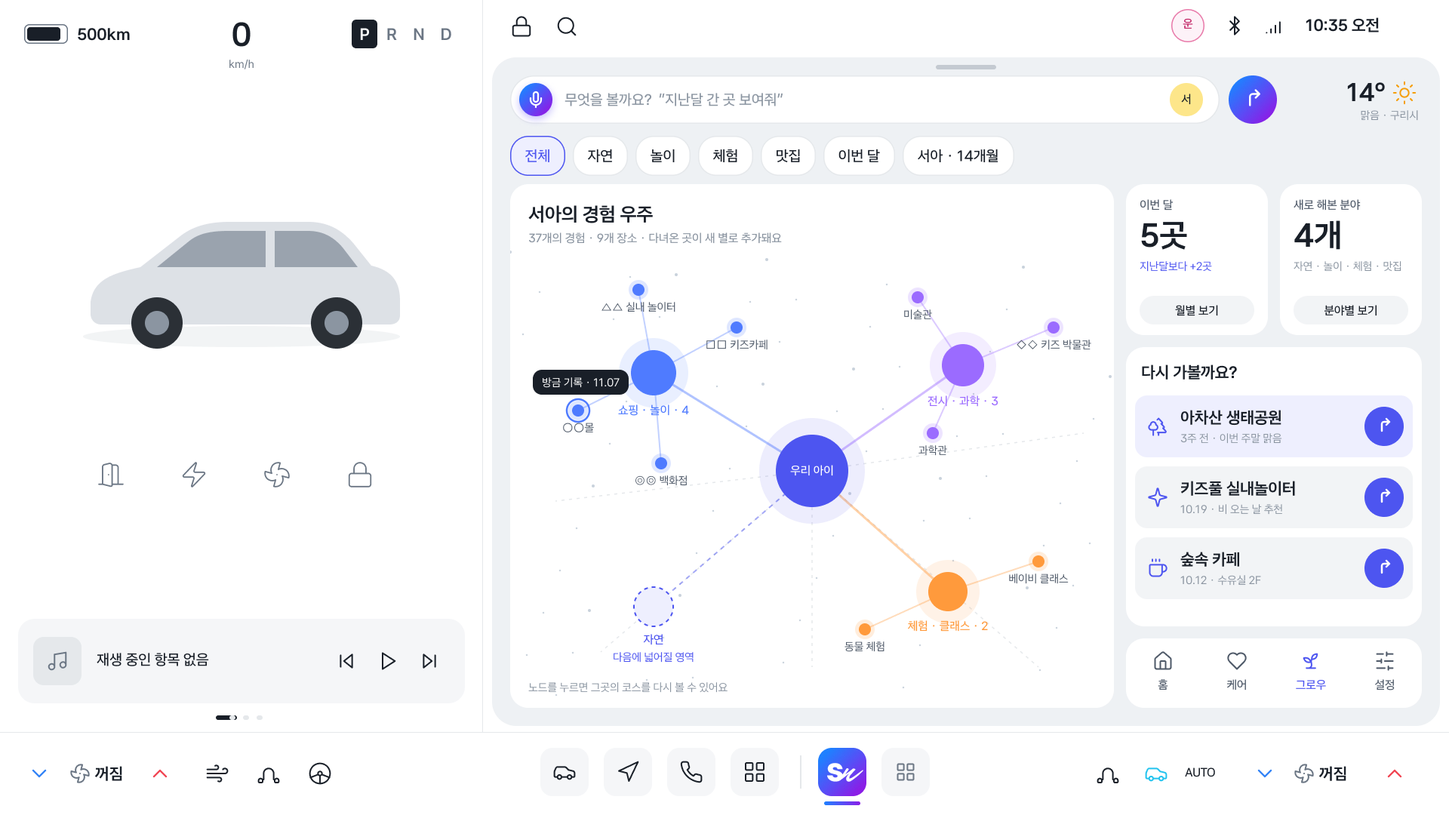
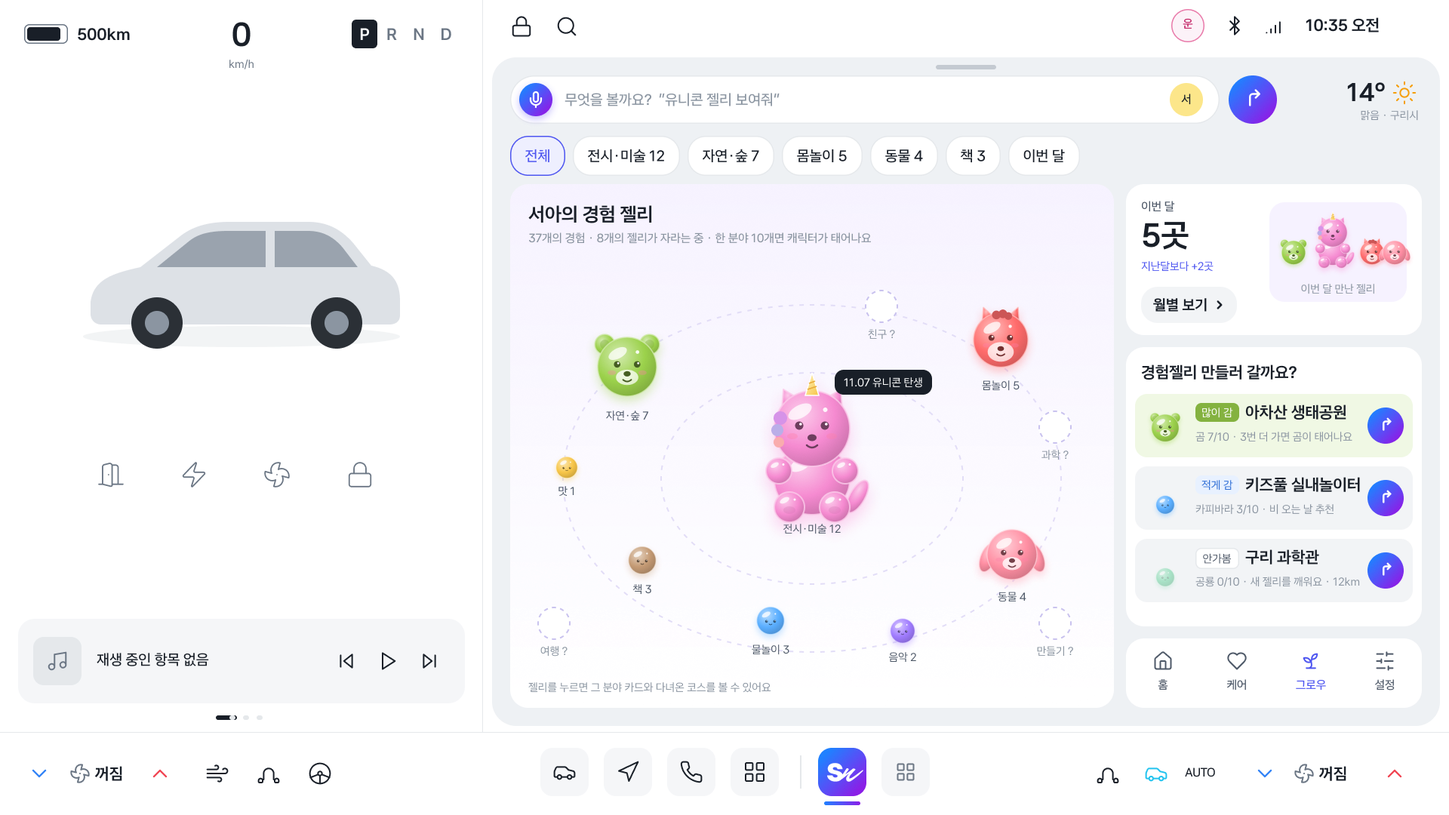
문서: Figma 종합 정리 페이지 전체 변경 감지와 앱 반영 지시서 (Closes #201)
- 바뀐 화면 PNG 교체(G01 경험 젤리, C05·C06 모드 카드 제목), 새 PNG(G03 월별 캘린더, H01 반경 드롭다운)
- 02 G01 다시 씀·페이지 비교 절, 04 G01 낡음 표시, 05 QF1~QF5
- 감사 문서 6절(피드백 반영 섹션 변경, 앱 반영 F-1~F-7)
- 작업 단위 지시서 1111-grow-jelly·1111-shell-polish·1111-feeding-cleanup, HANDOFF 행

diff --git a/docs/design/pleos-1110/02-screen-summaries.md b/docs/design/pleos-1110/02-screen-summaries.md
@@ -1,6 +1,6 @@
 # 11/10 확정 디자인 화면 요약 (17장)
 
-- 조회 날짜: 2026-11-10
+- 조회 날짜: 2026-11-10 (2026-11-11 페이지 전체 재조회로 G01·C05·C06 갱신, G03·H01-2 추가 — 아래 "2026-11-11 페이지 전체 비교" 절)
 - 근거 범위: Figma 파일 `xeLwkzhH8tnsazQdOriGU2`, 페이지 `종합 정리`(130:5), 섹션 `11/10 · Pleos 공통 UI + 지수ver`(351:2611) 안의 화면 프레임 17장. 글자·위치·색·인스턴스 속성은 use_figma(읽기 전용)로 노드에서 읽었다.
 - 한계: 같은 날 Figma MCP 호출 한도에 도달해 `get_screenshot`이 대부분 실패했다. 화면 PNG를 직접 본 화면은 없다. 따라서 "앱 영역 구성"의 위치·크기는 노드의 좌표(x,y)와 크기(w,h)에서 옮겼고, 시각적 확인은 "미확인"이다.
 - 좌표 표기: 모든 위치는 화면 프레임(1920x1080) 기준 `x,y`이며 앱 영역(`App · 시터노트`, 652,76 · 1256x886) 안쪽 값이 아니다. 차량 셸(`Pleos 공통 UI` 인스턴스)의 글자는 셸 항목으로 따로 적었다.
@@ -83,27 +83,22 @@
 - 상호작용 단서: 후보 선택 버튼 3개("선택"), 취소·이걸로 바꾸기, ↻ 교체 표시 설명 줄(H02에서 옮김).
 - 다른 화면과 다른 점: H02의 오른쪽 상세(도착·대안 안내·하단 버튼 3개) 자리에 대체 장소 목록과 취소·바꾸기 2버튼이 들어간다. 음성 입력줄, 칩(H01식), 바로가기 독은 없다.
 
-### G01 · 그로우 — 경험 나무 (`354:3033`)
-- 디자이너 Note: 경험 우주(라이트) · 분야 칩으로 거르기 · 노드 탭 → 그곳 코스 · "다시 가볼까요?"에서 바로 안내 (`357:1719`)
-- 상태/모드: 정차 아님, 라이트.
+### G01 · 그로우 — 경험 젤리 (`354:3033`) — 2026-11-11 갱신
+> 2026-11-10 처음 정리할 때(#141)의 G01은 "경험 나무/경험 우주" 안이었다. Figma 버전 2026-11-10T14:12:25Z(같은 노드 id)는 **경험 젤리** 안으로 바뀌어 있다. 아래는 바뀐 안 기준이다. PNG `assets/screens/G01-grow.png`도 2026-11-11에 바꿨다(이전 그림은 git 기록 `e74120a`).
+- 디자이너 Note: 경험 젤리 · 분야별 경험 수만큼 젤리가 자람(1–3 방울 · 4–9 몽글 · 10+ 캐릭터) · 젤리 탭 → 캐릭터 카드 · "월별 보기" → G03 캘린더 · 많이 감/적게 감/안가봄으로 다음 장소 추천 (`357:1719`)
+- 상태/모드: 정차 중(P), 라이트.
 - 앱 영역 구성:
-  - 상단 음성 입력줄: "무엇을 볼까요?  “지난달 간 곳 보여줘”" (x 748, y 118).
-  - 날씨: 14° · 맑음 · 구리시.
-  - 칩 줄 y 193: 전체 / 자연 / 놀이 / 체험 / 맛집 / 이번 달 / 서아 · 14개월 (7칩).
-  - 중앙 경험 우주(x ~700~1400, y ~260~900): 제목 "서아의 경험 우주"(y 266, 26px), 설명 "37개의 경험 · 9개 장소 · 다녀온 곳이 새 별로 추가돼요"(y 304), 노드(별) 라벨들(쇼핑 · 놀이 · 4 / ○○몰 / △△ 실내 놀이터 / □□ 키즈카페 / ◎◎ 백화점 / 전시 · 과학 · 3 / 미술관 / ◇◇ 키즈 박물관 / 과학관 / 체험 · 클래스 · 2 / 동물 체험 / 베이비 클래스 / 자연 / 다음에 넓어질 영역). 우주 중앙에 "우리 아이" 라벨(y 612), "방금 기록 · 11.07"(y 496).
-  - 하단 안내: "노드를 누르면 그곳의 코스를 다시 볼 수 있어요" (y 900).
-  - 우측 패널(x 1510~1800): "이번 달 5곳 · 지난달보다 +2곳 · 월별 보기"(y 260~400), "새로 해본 분야 4개 · 자연 · 놀이 · 체험 · 맛집 · 분야별 보기"(x 1714, y 260~400). "다시 가볼까요?" 블록(y 478~): 아차산 생태공원 / 키즈풀 실내놀이터 / 숲속 카페 (각 날짜·안내 줄).
-  - 바로가기 독: 홈(1492,896) / 케어(1590,896) / 그로우(1688,896) / 설정(1786,896).
-- 보이는 글:
-  - 음성: 무엇을 볼까요?  “지난달 간 곳 보여줘”
-  - 칩: 전체, 자연, 놀이, 체험, 맛집, 이번 달, 서아 · 14개월
-  - 경험 우주: 서아의 경험 우주 / 37개의 경험 · 9개 장소 · 다녀온 곳이 새 별로 추가돼요 / 노드 라벨 위 목록 (위 구성 참조) / 방금 기록 · 11.07 / 노드를 누르면 그곳의 코스를 다시 볼 수 있어요
-  - 우측: 이번 달 / 5곳 / 지난달보다 +2곳 / 월별 보기 / 새로 해본 분야 / 4개 / 자연 · 놀이 · 체험 · 맛집 / 분야별 보기
-  - 다시 가볼까요?: 아차산 생태공원 (3주 전 · 이번 주말 맑음) / 키즈풀 실내놀이터 (10.19 · 비 오는 날 추천) / 숲속 카페 (10.12 · 수유실 2F)
-- 컴포넌트: Voice Button 1, 칩 7(전체 등 텍스트 칩), 경험 우주 노드 약 14개 + 중앙 라벨, 우측 요약 카드 2, "다시 가볼까요?" 항목 3, 바로가기 독 4칸.
-- 눈에 띄는 색: 채움 상위 #C9D2DC(70, 우주 노드·선으로 보이는 회색 계열), #191F28(18), #FFFFFF(14), #4E5968(14), #000000(13), #4F7BFF(11, 파란 계열), #4D55F0(10, 인디고), #9B6BFF(9, 보라 계열), #8B95A1(8), #FF9A3C(7, 주황 계열), #F2F4F6(4), #EEEFFE(3). 노드 카테고리별 색이 다르게 칠해진 것으로 보이나 노드별 매핑은 미확인.
-- 상호작용 단서: 칩 7개(필터, "분야 칩으로 거르기" Note), 경험 우주 노드 14개 전후(탭 → 코스), "분야별 보기"·"월별 보기" 링크, "다시 가볼까요?" 항목 3개, "경험 나무" 안내 문장.
-- 다른 화면과 다른 점: H01과 같은 음성 줄·칩 줄·바로가기 독 구조지만, 본문이 추천 코스 목록이 아니라 경험 우주 그래프다. 날씨는 구리시.
+  - 상단 음성 입력줄: "무엇을 볼까요?  “유니콘 젤리 보여줘”", 오른쪽 아이 아바타 "서". 날씨 14° · 맑음 · 구리시.
+  - 칩 줄: 전체 / 전시·미술 12 / 자연·숲 7 / 몸놀이 5 / 동물 4 / 책 3 / 이번 달 (분야 칩에 **경험 수**가 붙는다. 아이 칩은 없음).
+  - 가운데 큰 카드(연보라 바탕): 제목 "서아의 경험 젤리", 설명 "37개의 경험 · 8개의 젤리가 자라는 중 · 한 분야 10개면 캐릭터가 태어나요". 점선 타원 궤도 두 개 위에 젤리를 놓는다. 가운데 가장 큰 캐릭터(전시·미술 12 = 유니콘)와 말풍선 "11.07 유니콘 탄생". 바깥 궤도에 자연·숲 7(곰), 몸놀이 5, 동물 4(몽글), 맛 1·책 3·물놀이 3·음악 2(방울), 아직 없는 분야는 점선 빈 원 "친구 ?"·"과학 ?"·"만들기 ?"·"여행 ?". **선(분야 가지)은 없다.** 아래 안내 "젤리를 누르면 그 분야 카드와 다녀온 코스를 볼 수 있어요".
+  - 오른쪽 위 카드: "이번 달 5곳 · 지난달보다 +2곳", 버튼 "월별 보기 ›", 옆에 "이번 달 만난 젤리" 젤리 그림 묶음.
+  - 오른쪽 아래 카드 "경험젤리 만들러 갈까요?": 3줄, 각 줄 = 배지 + 장소 + 젤리 진행 + 오른쪽 안내(↱) 버튼.
+    - 많이 감 · 아차산 생태공원 · "곰 7/10 · 3번 더 가면 곰이 태어나요"(연초록 강조)
+    - 적게 감 · 키즈풀 실내놀이터 · "카피바라 3/10 · 비 오는 날 추천"
+    - 안가봄 · 구리 과학관 · "공룡 0/10 · 새 젤리를 깨워요 · 12km"
+  - 바로가기 독: 홈 / 케어 / 그로우(선택) / 설정.
+- 보이는 글: 위 구성 그대로. "분야별 보기", "새로 해본 분야", "다시 가볼까요?", "경험 우주", "경험 나무"는 **없다**.
+- 다른 화면과 다른 점: 젤리 성장 단계는 B안(`374:6476`)과 같고(방울 1–3, 몽글 4–9, 캐릭터 10+), 캐릭터 그림은 B안 컴포넌트(`371:6514`, 레포 `assets/grow/`)를 쓴다. B안 G01-B(`374:6875` "젤리 우주")와 달리 가운데 아이 원과 선이 없다.
 
 ### C01 · 케어 — 정차 중 · 도착 지연 알림 (`355:3177`)
 - 디자이너 Note: 급한 케어 칩 6종(소아과 · 약국 · 화장실 추가) · 아이 선택은 칩 첫 칸 · 도착 지연 알림은 오른쪽 프로액티브 카드(지도·주행 정보는 가리지 않음) (`357:1720`)
@@ -175,6 +170,7 @@
 ### C05 · 케어 — 수유 시각 임박 (15분 전) (`355:4702`)
 - 디자이너 Note: 신규 · K5 임박(15분 전) — 주황 + 음성 1회 "곧 수유 시간이에요" · 경로 위 수유실 제안 (`357:1724`)
 - 상태/모드: 정차 아님(Drive=Off), 라이트. 수유 시각 15분 전.
+- 2026-11-11 확인: 왼쪽 모드 카드 제목이 **"베이비케어 공조 모드"**(`355:4928`)로 바뀌어 있다(11/10 PNG는 "베이비케어 모드"). C01~C04·C07~C12는 그대로 "베이비케어 모드"라 Figma 안에서도 섞여 있다. PNG 갱신.
 - 앱 영역 구성: 상단 음성 줄, 칩 줄(C01과 동일). 왼쪽 열 모드 카드(C01과 동일). 가운데 열 타이머: "곧 수유 시간이에요"(y 372), 다음 수유 12:30(y 394), "15분 남음 · 마지막 09:30"(y 470), 주황 배지 "15분 전"(x 1280, y 419), "지금 수유했어요" 버튼(x 1219, y 578). 오른쪽 열 카드(x 1552~1800, y 480~800): "15분 뒤 수유 시간이에요"(y 480), 안내 "지금 경로 위에 들를 수 있는 수유실이에요"(y 542), 후보 2행(OO몰 2F 수유실 +3분 / △△ 휴게소 수유실 +6분) "경유지 추가" 버튼 2개, 하단 "나중에"(x 1770, y 772).
 - 보이는 글:
   - 음성 줄·칩·모드 카드·장소 목록: C01과 동일 (타이머 제목은 "수유 타이머")
@@ -188,6 +184,7 @@
 ### C06 · 케어 — 수유 시각 지남 (`355:5094`)
 - 디자이너 Note: K5 지남 — 빨강 + 경로 위 수유실 바로 제안 · 주행 중이면 화면 대신 음성 (`357:1725`)
 - 상태/모드: 정차 아님, 라이트. 수유 시각 지남(+10분).
+- 2026-11-11 확인: C05와 같이 모드 카드 제목이 "베이비케어 공조 모드"(`355:5320`). PNG 갱신.
 - 앱 영역 구성: C05와 같은 골격. 타이머: "수유 시각 지남"(y 372), 다음 수유 12:30(y 394, 글자 56px), "예정 12:30 · 마지막 09:30"(y 470), 빨강 배지 "지남"(x 1270, y 419), "+10분"(y 394). 오른쪽 카드: "수유 시간이 10분 지났어요"(y 480), 안내 "경로 위 가장 가까운 수유실부터 보여 드려요"(y 542), 후보 2행(OO몰 2F 수유실 +3분 / △△ 휴게소 수유실 +6분), "수유실 경유지 추가"(x 1555, y 772), "나중에"(x 1770, y 772).
 - 보이는 글: 타이머 수유 시각 지남 / +10분 / 예정 12:30 · 마지막 09:30 / 지남 / 카드: 수유 시각이 10분 지났어요 / 경로 위 가장 가까운 수유실부터 보여 드려요 / OO몰 2F 수유실 · 경로에서 +3분 / △△ 휴게소 수유실 · 경로 위 · +6분 / 수유실 경유지 추가 / 나중에
 - 컴포넌트: Voice Button 1, 칩 7, 모드 카드 1, 타이머 카드 1(빨강 배지 1), 카드 1(후보 2행 + 버튼 2), 장소 행 3, 바로가기 독 4칸.
@@ -275,6 +272,29 @@
 - 눈에 띄는 색: #191F28(29), #FFFFFF(20), #4D55F0(20, 인디고 — 주행 제안 강조), #F2F4F6(17), #8B95A1(11), #4E5968(9), #EEEFFE(2), #EEF1F4(1), #C4CAD1(1), #FDE68A(1), #E5E8EBx1. 빨강·주황 없음.
 - 상호작용 단서: "좋아 · 추가" 버튼, "아니요" 버튼, 8초 자동 닫힘(안내 글로만 확인), 음성 응답 예시("좋아" — Note 기준).
 - 다른 화면과 다른 점: C09의 3곳 목록이 1곳 제안 카드 하나로 바뀌었다. 셸이 Drive=On이며 속도·거리 표시 값이 다르다(412km·62). 버튼은 두 개(좋아 · 추가 / 아니요).
+
+## 2026-11-11 페이지 전체 비교 (추가 화면 G03 · H01-2, 이슈 #157)
+
+페이지 `종합 정리`(130:5) 전체를 REST로 다시 읽어(버전 `2420237904099670604`, 2026-11-10T14:12:25Z) 이 문서·PNG와 비교했다. 정리:
+- 섹션 `351:2611` 안 화면은 이 문서 첫 작성(11/10 21:56 PNG) 뒤에 **G01**(경험 젤리 안으로 교체), **C05·C06**(모드 카드 제목 한 곳)이 바뀌었고 **G03**이 새로 생겼다. 나머지 14장은 픽셀 차이 없음.
+- 섹션 `11/10 · Pleos 공통 UI + 지수ver_피드백 반영`(`369:11525`)은 `351:2611`의 **복사본**이다. 화면 19장 중 18장은 글·구조·속성이 원본과 같고(컴포넌트 id만 다름), **H01 두 번째 안**(`369:19634`, 반경 드롭다운)만 새로 있다. Lib 셸의 로고·Course Item·Timeline Row·Voice Button이 컴포넌트에서 인스턴스로 바뀐 것은 화면에 영향 없음.
+- 섹션 밖: 온보딩 O01~O06·O04-1(위 절에 이미 정리), 웹 S02·S02-1(아래 절), B안 섹션 `371:5753`(레포 `assets/grow/`에 그림 저장), 예전 HF 01·02 프레임과 11/9 섹션(이전 안), 타일 시안 3개(`354:3746` 새 분야, `352:2954` 다음 수유, `369:8279` 정차 공간), C05 사본(`369:8105`), 참고 이미지·대화 글은 디자인 탐색용이다.
+
+### G03 · 그로우 — 월별 경험 젤리 캘린더 (`387:8031`)
+- 디자이너 Note: 월별 보기 → 날짜마다 그날 자란 젤리 · 캐릭터가 태어난 날은 "탄생" 표시 · ‹ › 또는 칩으로 다른 달 · 날짜 탭 → 그날 코스와 사진 (`387:8885`)
+- PNG: `assets/screens/G03-grow-calendar.png`. 상태: 정차 중(P), 라이트.
+- 앱 영역 구성:
+  - 음성 줄 "무엇을 볼까요?  “지난달 젤리 보여줘”", 날씨는 G01과 같음.
+  - 칩 줄: 11월(선택) / 10월 / 9월 / 8월 / 올해 전체.
+  - 가운데 큰 카드: 뒤로(‹) + "2026년 11월", 부제 "경험 젤리로 보는 한 달", 오른쪽 위 ‹ › 달 넘기기. 일~토 달력(일 빨강, 토 파랑), 날짜 칸마다 그날 자란 젤리 방울(분야 색)을 작게, 7일 칸은 캐릭터 그림 + 분홍 배지 "탄생". 오늘(10일)은 인디고 테두리 + "오늘".
+  - 오른쪽 위 카드 "11월 요약": "5곳 · 4일", "젤리 5개 자람 · 새로 태어난 젤리 1", 분홍 배지 "11.07 상상의 유니콘 탄생", 오른쪽에 캐릭터 그림.
+  - 오른쪽 아래 카드 "이번 달 자란 젤리": 분야별 줄(젤리 그림 + 이름 + 이번 달 증가 "+2" + 진행 막대 + "10/10 (+2)"). 전시·미술 · 캐릭터 / 자연·숲 7/10 / 몸놀이 5/10 / 동물 4/10.
+  - 바로가기 독(그로우 선택).
+- 그려지지 않은 것: 날짜를 눌렀을 때의 "그날 코스와 사진" 화면, "올해 전체" 칩 화면, 방문이 없는 달.
+
+### H01 두 번째 안 · 추천 반경 드롭다운 (`369:19634`, 피드백 섹션)
+- PNG: `assets/screens/H01-2-home-radius.png`. H01과 같은 화면에 칩 "반경 10km"를 누른 상태: 앱 영역에 반투명 막(`Scrim (앱 영역만)`), 칩 아래 드롭다운 `Dropdown · 반경 수정` — 제목 "추천 반경", 값 "24km", 슬라이더 양끝 "5km"·"50km", 안내 "코스 추천 시 설정한 반경 내로 추천해드려요!".
+- 앱에는 이미 같은 기능이 있다(감사 H-17, `149-h01-2` 캡처).
 
 ## 온보딩 O01~O06 (2026-11-11 추가, 이슈 #157)
 

diff --git a/docs/audit/2026-11-11-figma-vs-app.md b/docs/audit/2026-11-11-figma-vs-app.md
@@ -10,6 +10,8 @@
 
 > 이 감사는 조사만 했다. 코드는 고치지 않았다.
 >
+> 2026-11-11 오후: Figma 페이지 전체를 다시 읽어 바뀐 화면과 앱 반영 항목을 **6절**에 더했다. 필수 8건은 작업 단위 지시서 3개(`docs/agent-tasks/1111-*.md`)로 묶었다.
+>
 > 감사 뒤 main에 child-mode 작업(PR #193 서버·#194 차 앱: 케어 모드 값 아이별)이 병합됐다. 아래 표의 O05 부제·C07 안내·C08·O-11처럼 "가족 공통" 모드 값과 관련된 항목은 그 PR로 바뀌었을 수 있다(다시 보지 않음).
 
 ---
@@ -163,10 +165,8 @@
 |---|---|---|---|---|---|---|
 | X-1 | **G03 월별 경험 젤리 캘린더** (`387:8031`) | 11월 달력, 날짜마다 그날 자란 젤리, 탄생일 표시, ‹ › 와 월 칩(11·10·9·8월·올해 전체), 오른쪽 "11월 요약 5곳·4일", "이번 달 자란 젤리" 분야별 진행 막대. Note: 날짜 탭 → 그날 코스와 사진 | 없음. G01에 "월별 보기" 버튼도 없음(코드에 "분야별 보기"만) | 기능 | 좋음(접수 영상에 그로우를 크게 보여 줄 거면 필수) | audit-figma-g03, `ExperienceScreen.kt:213` |
 | X-2 | **G01 최신안 "경험 젤리"** (`354:3033`·피드백 `369:12439`) | 큰 젤리 캐릭터가 궤도에 놓인 그림(선 없음), 칩 "전체 / 전시·미술 12 / 자연·숲 7 / 몸놀이 5 …"(개수 포함), 오른쪽 "이번 달 5곳 + 이번 달 만난 젤리 그림 + 월별 보기", "경험젤리 만들러 갈까요?"(많이 감·적게 감·안 가봄 + 젤리 진행 "곰 7/10 · 3번 더 가면 곰이 태어나요") | 앱은 이전 "경험 우주" 안(가운데 아이 원 + 선 + 작은 젤리, "다시 가볼까요?")을 그대로 씀. `assets/screens/G01-grow.png`도 예전 나무 안이라 문서 기준선이 낡음 | 디자인·기능 | (G-1·G-4로 셈) | audit-figma-g01, audit-g01 |
-| X-3 | `_피드백 반영` 섹션 나머지 17장 | 원본과 글·그림이 같음(픽셀 비교 0). 다른 점은 C05·C06 모드 카드 제목 "베이비케어 **공조** 모드"(원본 "베이비케어 모드")와 H01 반경 드롭다운 안뿐 | 앱은 "베이비케어 모드" | 디자인 | 나중 | 픽셀 비교 결과(아래 5절) |
+| X-3 | `_피드백 반영` 섹션 나머지 17장 | 원본 섹션 `351:2611`과 글·구조가 같음(복사본). 11/10 PNG와 비교하면 C05·C06 모드 카드 제목 "베이비케어 **공조** 모드"(PNG "베이비케어 모드")와 H01 반경 드롭다운 안만 다르다. 2026-11-11 재조회로 보니 "공조" 문구는 원본 섹션 C05·C06에도 있다(6절) | 앱은 "베이비케어 모드" | 디자인 | 나중 | 픽셀 비교 결과(아래 5절) |
 | X-4 | 설정 화면 | 11/10 Figma에 없음 | 옛 디자인(TripColors, 독이 오른쪽 아래 작은 떠 있는 상자, 상단 회색 안내 띠). 다른 화면과 톤이 다름 | 디자인 | 좋음 | `ui/SettingsScreen.kt` | audit-settings |
-
----
 
 ## 4. 확인하지 못한 것
 
@@ -183,6 +183,7 @@
 - **다른 세션과 에뮬레이터 공유**: 감사 도중 child-mode 세션이 에뮬레이터를 쓰는 동안 감사 앱이 설정·O02·O03 화면으로 바뀌어 있었다. child-mode 세션이 나중에 알려 준 바로는 그 세션의 탭이 감사 앱 설정 화면 오른쪽 아래(로그아웃·개발자 화면 부근)에 들어갔을 수 있다. 따라서 앱 결함이 아니라 다른 세션의 조작으로 본다. 다시 시작하자 로그인이 유지된 채(설정에 "감사아빠 (audit_tester) 로그인 중") 열렸다.
 - **G01 아이 바꾸기**: 그로우가 아이별로 갈리는지(도윤 선택 시) 확인 못 함.
 - **코스 저장 중복**: 같은 코스를 두 번 저장하면 둘로 쌓이는지 확인 못 함.
+- **6절(페이지 재조회)**: 노드 글·구조·속성과 PNG로만 비교했다. 디자이너가 다음 버전에서 피드백 섹션 쪽을 고칠지, "공조" 문구가 의도인지는 모른다(QF4·QF5). child-mode 세션이 지금 어떤 파일을 고치는지는 지시서와 공유 메모로만 봤다.
 
 ---
 
@@ -191,3 +192,58 @@
 - Figma REST(읽기 전용): `nodes?ids=369:11525,369:10409,369:10451` 1회, `images`(19장) 1회(+경로 실수로 404 1회). figma-watch 감시 카운터(`watch/state.json`, 11월 8회)에 더하면 이번 달 Tier 1 약 10~11회. `state.json`은 figma-watch 세션 파일이라 고치지 않았다.
 - `_피드백 반영` 섹션 19장을 11/10 PNG와 픽셀 비교: H02·H02-1·C01~C04·C07~C12·D01·H01(1번째)은 차이 0. C05·C06은 모드 카드 제목 한 곳, G01은 전체(PNG가 예전 안), H01 2번째 안은 반경 드롭다운.
 - 시험 계정 값은 세션 스크래치에만 두었고 레포에 적지 않았다.
+
+---
+
+## 6. 피드백 반영 섹션 변경 (2026-11-11 페이지 전체 재조회)
+
+통제 세션 요청으로 Figma 페이지 `종합 정리`(130:5) 전체를 REST로 한 번 더 읽어(버전 `2420237904099670604`, 2026-11-10T14:12:25Z — 기준선과 같은 버전) 레포 기록(`docs/design/pleos-1110/`의 PNG·`02`·`04`·`05`, figma-watch 기준선)과 비교했다. 상세 화면 설명은 `02`의 "2026-11-11 페이지 전체 비교" 절, 미정은 `05`의 QF1~QF5.
+
+### 6-1. 무엇이 바뀌었나
+
+| 구분 | 화면 | 노드 | 레포 기록과 다른 점 | 레포 반영 |
+|---|---|---|---|---|
+| 바뀐 화면 | G01 그로우 | `354:3033`(피드백 `369:12439`) | "경험 나무/우주" → **경험 젤리**(큰 젤리 궤도, 선 없음, 개수 붙은 분야 칩, "월별 보기", "경험젤리 만들러 갈까요?" 많이 감·적게 감·안가봄) | PNG 교체, `02` G01 다시 씀 |
+| 바뀐 문구 | C05·C06 | `355:4928`, `355:5320` | 모드 카드 제목 "베이비케어 모드" → "베이비케어 **공조** 모드"(C05·C06 두 장만) | PNG 교체, `02` 메모, `05` QF4 |
+| 새 화면 | G03 월별 경험 젤리 캘린더 | `387:8031`(피드백 `369:15801`) | `02`·PNG에 없었음 | `G03-grow-calendar.png`, `02` 절 추가 |
+| 새 화면(변형) | H01 두 번째 안 · 반경 드롭다운 | `369:19634` | 피드백 섹션에만 있음 | `H01-2-home-radius.png`, `02` 절 추가 |
+| 구성 | 피드백 섹션 전체 | `369:11525` | 원본 섹션 복사본. 위 H01 두 번째 안 말고는 글·구조·속성이 원본과 같다(컴포넌트 id만 다름) | `02`·`05` QF5 |
+| 구성 | Lib 공통 셸(피드백 사본) | `369:11526` | 로고·Course Item·Timeline Row·Voice Button이 컴포넌트 → 인스턴스. 화면 영향 없음 | 없음 |
+| 그대로 | H01·H02·H02-1·C01~C04·C07~C12·D01 | — | 11/10 PNG와 차이 없음 | — |
+| 그대로 | O01~O06·O04-1, S02·S02-1, B안 섹션 | — | 2026-11-11 기록(`02`, `assets/grow/`)과 같은 버전 | — |
+
+### 6-2. 실제 앱에 반영할 것
+
+| # | 항목 | Figma | 지금 앱 | 구분 | 심각도 | 관련 파일 | 작업 단위 |
+|---|---|---|---|---|---|---|---|
+| F-1 | G01 경험 젤리 화면(=G-1·G-4, X-2) | 큰 젤리 궤도·빈 분야 "?"·선 없음 + "경험젤리 만들러 갈까요?" 3줄 | 이전 "경험 우주"(가운데 아이 원 + 선 + 작은 젤리, "다시 가볼까요?") | 디자인·기능 | **필수** | `ui/ExperienceScreen.kt`, `ui/ExperienceUniverse.kt`, `ui/ExperienceLayout.kt`, `ui/JellyDraw.kt`, `grow/JellyModel.kt` | 1111-grow-jelly |
+| F-2 | G01 칩에 분야 개수, 아이 칩 없음(=G-2) | "전시·미술 12 · 자연·숲 7 …" | 개수 없음, "서아 · 14개월" 칩 | 디자인 | 좋음 | `ExperienceScreen.kt` | 1111-grow-jelly |
+| F-3 | G01 오른쪽 위 "월별 보기 ›" + 이번 달 만난 젤리(=G-3) | 카드 1개 | "이번 달 보기"·"분야별 보기" 카드 2개 | 디자인·기능 | 좋음 | `ExperienceScreen.kt` | 1111-grow-jelly |
+| F-4 | G03 월별 캘린더(=X-1) | 달력 + 날짜별 젤리 + 탄생 배지 + 월 칩 + 11월 요약 + 이번 달 자란 젤리 | 없음 | 기능 | 좋음 | 새 `ui/ExperienceCalendar.kt`(가칭), `grow/GrowVoice.kt`("지난달 젤리 보여줘") | 1111-grow-jelly |
+| F-5 | 음성 줄 예시 "유니콘 젤리 보여줘"(G01)·"지난달 젤리 보여줘"(G03)(=G-5) | 새 예시 | "지난달 간 곳 보여줘" | 디자인 | 나중 | `ExperienceScreen.kt` | 1111-grow-jelly |
+| F-6 | "경험 나무" 문구 정리(=H-2) | 경험 젤리 | 홈 타일 "경험 나무 보기", H02 귀가 줄, O01 GROW 카드 | 디자인 | **필수** | `HomeScreen.kt:363`, `CourseOverview.kt:147`, `onboarding/OnboardingScreen.kt:356` | 1111-shell-polish |
+| F-7 | C05·C06 "베이비케어 공조 모드" | 두 장만 "공조" | "베이비케어 모드" | 디자인 | 나중(QF4 결정 뒤) | `ui/CareScreen.kt` | 1111-feeding-cleanup |
+
+### 6-3. 반영하지 않는 것
+
+| 항목 | 이유 |
+|---|---|
+| H01 두 번째 안(반경 드롭다운 5~50km) | **이미 반영됨**(H-17) |
+| C05·C06 화면 자체(수유 시각 임박·지남) | **의도된 차이**: 수유 기록 삭제 예정. 문구(F-7)만 결정 대기 |
+| Lib 셸 컴포넌트 → 인스턴스 | 화면 영향 없음 |
+| 타일 시안 3개(`354:3746` 새 분야, `352:2954` 다음 수유, `369:8279` 정차 공간), C05 사본(`369:8105`), 참고 이미지·스크린샷·대화 글, "영아기/유아기" 선 | **디자인 탐색용**(섹션 밖 작업 흔적) |
+| 예전 HF 01·02 프레임(`326:*`, `363:6432`), 11/9 케어 섹션(`343:11731`), 발표 슬라이드 30장(`165:*`) | 이전 안·발표 자료 |
+| B안 섹션 G01-B "젤리 우주"·G02-B 탄생 시트(`371:5753`) | G01 경험 젤리가 대신함(Q32 확정). 캐릭터 그림·성장 단계만 씀(이미 `assets/grow/`) |
+
+### 6-4. 작업 단위 (지시서)
+
+| 지시서 | 묶은 항목 | 접수 전 필수 | child-mode와 파일 겹침 |
+|---|---|---|---|
+| [`docs/agent-tasks/1111-grow-jelly.md`](../agent-tasks/1111-grow-jelly.md) | F-1~F-5 (G-1·G-2·G-3·G-4·G-5·G-6·X-1·X-2·G-8) | **예**(G-1·G-4) | 없음 |
+| [`docs/agent-tasks/1111-shell-polish.md`](../agent-tasks/1111-shell-polish.md) | O-2 아이콘, H-1 날씨, O-1 알림 띠, D-3 음성 패널, H-2/F-6 문구 | **예**(5건 모두) | `OnboardingScreen.kt`·`MainActivity.kt` 가능성(확인 필요) |
+| [`docs/agent-tasks/1111-feeding-cleanup.md`](../agent-tasks/1111-feeding-cleanup.md) | H-12(+H-15, O-13, W-5, 설정 루틴, C-12), F-7 | **예**(H-12) | **겹침**: `CareScreen.kt`, `FeedingStore`, `OnboardingScreen.kt`(O05·O06) |
+
+### 6-5. 이번 조회에 쓴 Figma 호출
+
+- `meta`(Tier 3) 1회, `nodes?ids=130:5`(Tier 1) 1회. 그림은 이번 오전 감사에서 같은 버전으로 받아 둔 PNG를 다시 써서 `images` 호출은 하지 않았다. 11월 Tier 1 누계 추정 12회(figma-watch 8 + 감사 3 + 이번 1). `watch/state.json`은 figma-watch 세션이 고친다.
+- S02·S02-1 PNG는 받지 않았다(호출 아낌, `02`에 글로만 있음).

diff --git a/docs/agent-tasks/1111-grow-jelly.md b/docs/agent-tasks/1111-grow-jelly.md
@@ -1,0 +1,41 @@
+# 그로우 G01 "경험 젤리" + G03 월별 캘린더 (2026-11-11 지시서)
+
+- 상태: **대기**(실행 세션은 통제 세션이 시작) · 접수 전 필수: **예**(G-1·G-4)
+- 근거: 감사 `docs/audit/2026-11-11-figma-vs-app.md` 3-5절(G-1~G-8)·3-7절(X-1·X-2)·6절(F-1~F-5), 화면 설명 `docs/design/pleos-1110/02-screen-summaries.md`의 G01(경험 젤리)·G03 절, 미정 `05`의 Q32·QF1~QF3.
+- child-mode 세션과 파일 겹침: **없음**(그 세션은 케어·프리셋 파일만 고침).
+
+## 목표
+그로우 탭을 Figma G01 최신안 "경험 젤리"로 바꾸고, "월별 보기"에서 G03 월별 캘린더를 연다. 시연용이 아니라 실제 방문 기록으로 동작하게 만든다.
+
+## 완료 조건
+1. **[필수] G01 가운데 카드(G-1, F-1):** 제목 "서아의 경험 젤리"(고른 아이 이름), 설명 "N개의 경험 · M개의 젤리가 자라는 중 · 한 분야 10개면 캐릭터가 태어나요". 가장 많이 간 분야를 가운데 크게, 나머지를 점선 타원 궤도 두 개 위에 놓는다. 아이 원·분야 선은 없앤다. 단계별 크기: 방울(1–3)·몽글(4–9)·캐릭터(10+). 빈 분야는 점선 원 "과학 ?" 꼴(QF2 제안: 최대 4개). 최근 탄생은 말풍선 "11.07 유니콘 탄생". 아래 안내 "젤리를 누르면 그 분야 카드와 다녀온 코스를 볼 수 있어요".
+2. **[필수] 오른쪽 아래 "경험젤리 만들러 갈까요?"(G-4, F-1):** 많이 감·적게 감·안가봄 3줄. 각 줄은 배지 + 장소 이름 + 젤리 진행("곰 7/10 · 3번 더 가면 곰이 태어나요") + 바로 안내 버튼. 고르는 규칙은 QF1(제안 ③: 많이 감·적게 감은 다녀온 장소, 안가봄은 그 분야 근처 장소 검색 1회). "다시 가볼까요?" 블록은 없앤다.
+3. [좋음] 칩 줄(G-2, F-2): "전체 / 분야 N … / 이번 달", 분야 칩은 개수 순, 칩에 아이 칩은 넣지 않는다(아이는 음성 줄 아바타로).
+4. [좋음] 오른쪽 위 카드(G-3, F-3): "이번 달 N곳 · 지난달보다 +K곳" + "월별 보기 ›" + "이번 달 만난 젤리" 그림. "분야별 보기" 카드는 없앤다.
+5. [좋음] G03 월별 캘린더(X-1, F-4): 월 칩(이번 달·지난 3달·올해 전체), ‹ › 달 넘기기, 날짜 칸에 그날 자란 젤리 방울(분야 색), 탄생한 날 캐릭터 그림 + "탄생" 배지, 오늘 표시, 오른쪽 "N월 요약 N곳 · N일 / 젤리 N개 자람 · 새로 태어난 젤리 N" + "이번 달 자란 젤리" 분야별 진행 막대. 날짜 탭 → 그날 방문 장소 목록(QF3 제안, 사진 없음). 뒤로(‹) → G01.
+6. [좋음] 젤리 탭(G-6): 그 분야 카드(캐릭터·단계·역량 문구) + 다녀온 장소 목록.
+7. [나중] 음성 줄 예시(G-5): G01 "유니콘 젤리 보여줘", G03 "지난달 젤리 보여줘". 음성 "지난달 젤리 보여줘"는 G03 지난달로 연다(`grow/GrowVoice.kt`).
+8. 테스트: 배치·단계 판정·추천 3줄 고르기·달력 날짜 묶기 단위 테스트, 에뮬레이터 캡처(G01·G03, 방문 0건·1건·많음).
+9. 문서: 이 파일 진행 로그, `docs/HANDOFF.md` 자기 행, 감사 문서 6-2 표 해당 줄에 "반영 PR #N" 메모.
+
+## 건드릴 파일
+- `android/app/src/main/java/io/github/haeyeonyou/familytrip/ui/ExperienceScreen.kt`, `ExperienceUniverse.kt`(경험 젤리 궤도로 바꾸거나 새 파일), `ExperienceLayout.kt`, `JellyDraw.kt`(원본 SVG 그림 `docs/design/pleos-1110/assets/grow/`를 쓸 수 있으면 교체), 새 `ui/ExperienceCalendar.kt`(가칭)
+- `grow/JellyModel.kt`, `grow/GrowVoice.kt`, 테스트 `ExperienceLayoutTest.kt`·`JellyModelTest.kt`·`GrowVoiceTest.kt`
+- 서버는 원칙적으로 건드리지 않는다. 날짜별 방문은 `/me/visits`(방문 날짜 `visited_on`·`jelly` 포함, `server/app/visits.py`, 기본 50건·최대 500건)로 충분한지 먼저 확인하고, 부족하면 통제 세션에 알린다.
+- 건드리지 않음: 케어·프리셋 파일(child-mode 진행 중), `HomeScreen.kt`(홈 "경험 나무" 문구는 `1111-shell-polish` 몫).
+
+## Figma 노드
+- G01 `354:3033`(피드백 사본 `369:12439`), Note `357:1719`, PNG `docs/design/pleos-1110/assets/screens/G01-grow.png`(2026-11-11 갱신)
+- G03 `387:8031`(사본 `369:15801`), Note `387:8885`, PNG `assets/screens/G03-grow-calendar.png`
+- B안 성장 규칙 `374:6476`, 캐릭터 컴포넌트 `371:6514`(그림 `assets/grow/`)
+
+## 결정·미정
+- 결정(Q32, 2026-11-10 사용자): G01 기준 + 젤리 B안 성장 단계. 그로우 분류는 12분류(#164·#186, `JellyKind`).
+- 미정: QF1 추천 3줄 규칙, QF2 빈 분야 몇 개, QF3 날짜 탭 내용 — 제안대로 시작하고 결과를 로그에 남긴다.
+
+## 진행 로그
+- 2026-11-11: 지시서 작성(full-audit 세션, Figma 페이지 재조회).
+
+## 확인하지 못한 것
+- 원본 SVG 36장이 Compose에서 그대로 쓸 만한지(크기·그림자) 보지 않았다.
+- 아이별 방문 기록 구분(G-7)은 서버에 아이 필드가 있는지 확인하지 않았다.

diff --git a/docs/agent-tasks/1111-feeding-cleanup.md b/docs/agent-tasks/1111-feeding-cleanup.md
@@ -1,0 +1,40 @@
+# 수유 기록 삭제에 따른 남은 문구·빈자리 정리 (2026-11-11 지시서)
+
+- 상태: **대기 — child-mode 세션이 끝난 뒤 시작**(실행 세션은 통제 세션이 시작) · 접수 전 필수: **예**(H-12)
+- 근거: 감사 `docs/audit/2026-11-11-figma-vs-app.md` 1절 7위(H-12 + H-15, O-13, W-5, 설정 루틴), 2절 "의도된 차이"(수유 기록 기능 삭제 예정), 3-4절 C-6·C-12, 6절 F-7.
+- child-mode 세션과 파일 겹침: **겹침** — `ui/CareScreen.kt`, `ui/TripViewModel.kt`, `care/CareController.kt`, `data/SyncModels.kt`·`TripApi.kt`(2026-11-11 그 세션 작업 트리에서 수정 중), 또 `data/FeedingStore.kt`·`FeedingSync.kt`(그 세션이 아이별로 바꾼 파일). child-mode(#168 적용 시점) PR이 병합된 뒤 그 main에서 시작한다.
+
+## 목표
+"수유 기록 기능 삭제"(사용자 결정, 감사 2절)를 실제로 끝낸다. 기능만 빼고 남는 문구·빈자리·웹 카드를 한 번에 정리해, 화면에 "수유를 기록하면…" 같은 말이 남지 않게 한다.
+
+## 완료 조건
+1. **삭제 범위 확정(시작 전 질문 1개):** 아래 "미정"의 QD1 답을 받는다. 답이 오기 전에는 코드를 지우지 않는다.
+2. **[필수] H-12:** H02 도착 카드 "케어에서 수유를 기록하면 도착 때 여유를 알려 드려요" 문구 정리(`ui/CourseOverview.kt`).
+3. H-15: H02-1 아래 "바꾸면 뒤 일정과 수유 지점 시간이 다시 계산돼요" → 수유 지점 없이 맞는 말로(`CourseOverview.kt`·`CourseDetailLogic.kt`).
+4. O-13: O06 마지막 수유 카드 자리가 비어 화면 아래 1/3이 빈다 → 요약 카드 배치 다시(`ui/onboarding/OnboardingScreen.kt`).
+5. C-6·C-12: 케어 가운데 열 수유 타이머(C02 첫 기록 전·C03 수유 중·C05 임박·C06 지남) 처리 — QD1 답에 따라 카드 자체를 없애거나 다른 카드(예: 오늘 케어 기록)로 바꾼다(`ui/CareScreen.kt`, `ui/FeedingTimerCard.kt`, `ui/FeedingCard.kt`, `care/FeedingStop.kt`, `ui/CareFeedingStop.kt`).
+6. W-5: 웹 홈·케어의 "수유 시각을 기록해 보세요"·"지금 수유했어요" 카드(`server/app/templates/*`, 웹 라우터).
+7. 설정의 수유 루틴 항목(`ui/SettingsScreen.kt`), 음성 "수유할게"·"다 먹었어" 분기(`voice/`), 홈 수유 표시(`ui/HomeScreen.kt`) — QD1 범위에 따라.
+8. F-7(나중, QF4 결정 뒤): 모드 카드 제목 "베이비케어 모드" vs "베이비케어 공조 모드".
+9. 서버 수유 API·DB 표는 지우지 않는다(데이터 보존, 별도 결정). 앱이 부르지만 않게 한다.
+10. 검증: 단위 테스트·서버 테스트, 에뮬레이터 캡처(H02·H02-1·O06·케어), 화면 문자열에 "수유를 기록" 같은 말이 남지 않는지 grep. 이 파일 로그·`docs/HANDOFF.md` 자기 행.
+
+## 건드릴 파일
+- 앱: `ui/CourseOverview.kt`, `ui/CourseDetailLogic.kt`, `ui/onboarding/OnboardingScreen.kt`, `onboarding/OnboardingFlow.kt`, `ui/CareScreen.kt`, `ui/FeedingTimerCard.kt`, `ui/FeedingCard.kt`, `ui/CareFeedingStop.kt`, `care/FeedingStop.kt`, `care/CareSlot.kt`, `data/FeedingStore.kt`, `data/FeedingSync.kt`, `ui/SettingsScreen.kt`, `ui/HomeScreen.kt`, `voice/`(수유 분기)
+- 서버·웹: `server/app/templates/*`(웹 수유 카드), 웹 라우터
+- 건드리지 않음: 그로우 파일, 프리셋·모드 편집(`CareModeEditSheet.kt`, `PresetSync.kt` — child-mode 몫). 수유실 찾기(급한 케어 C09~C12)와 수유 정차 **모드**(공조 프리셋)는 수유 "기록"과 별개라 남긴다(QD1에서 확인).
+
+## Figma 노드
+- C02 `355:3567`, C03 `355:3942`, C05 `355:4702`, C06 `355:5094`(제목 "베이비케어 공조 모드" `355:4928`·`355:5320`), H02 `353:2745`, H02-1 `353:3066`, O06 `369:21421`, 웹 S02-1 `369:10451`(수유 간격).
+
+## 결정·미정
+- 결정: 수유 기록 기능 삭제 예정(감사 2절, 온보딩 QO3에서 수유 입력 제거 완료).
+- **QD1(사용자에게 물을 것):** 삭제 범위 — ① 수유 타이머·기록만 삭제(수유 정차 모드·수유실 찾기·"수유할게" 음성은 유지) ② 수유 정차 모드까지 삭제 ③ 수유 관련 전부(수유실 칩 포함) 삭제. 제안: ①.
+- QF4(`05`): "공조" 문구 — 제안: "베이비케어 모드" 유지.
+
+## 진행 로그
+- 2026-11-11: 지시서 작성(full-audit 세션).
+
+## 확인하지 못한 것
+- 수유 기록 삭제가 언제 어떤 범위로 결정됐는지 원 기록을 찾지 못했다(감사 문서 2절·온보딩 QO3에만 있음).
+- 도착 지연 알림(C01)이 수유 시각을 쓰는지(`navi/DelayAlertController.kt`에 "수유"가 나옴) 자세히 보지 않았다.

diff --git a/docs/design/pleos-1110/05-gaps-and-open-questions.md b/docs/design/pleos-1110/05-gaps-and-open-questions.md
@@ -343,6 +343,7 @@
 - (c) ① G01을 기준으로 다시 맞춤 ② 이미 구현된 HF04 유지 ③ 젤리 B안이 최종이고 G01은 대체됨.
 - (d) 사용자에게 확인. 그 전에는 HF04를 건드리지 않는다. [제안]
 - **확정 (2026-11-10, 사용자): G01 기준 + 젤리 B안의 성장 단계 참고.**
+- 2026-11-11 추가 [사실]: 같은 노드 G01(`354:3033`)이 "경험 젤리" 안으로 바뀌어 있다(큰 젤리 궤도, 선 없음, "경험젤리 만들러 갈까요?"). 위 확정과 내용이 맞는다(G01 화면 + B안 성장 단계·캐릭터). 앱은 아직 이전 "경험 우주" 모양이다 → `docs/agent-tasks/1111-grow-jelly.md`, 남은 질문은 QF1~QF3.
 - (e) G01, `앱/ui/ExperienceScreen.kt`, `ExperienceUniverse.kt`, `ExperienceLayout.kt`.
 - (f) **막힘** (그로우 전체 작업 범위가 걸림).
 
@@ -459,6 +460,34 @@
 #### QO9 O02 "자주 가는 케어 장소" 불러오기
 - (a) 서버에 케어 장소 목록이 없다(차 로컬 `FrequentCarePlaces`). 웹에서 입력하는 화면도 이번 범위에서 확인하지 못했다.
 - (b) [제안] 1차에서는 O02 오른쪽 목록에서 이 행을 빼거나 "이 차에 저장된 곳"만 표시. 서버 목록 API는 별도 작업.
+
+### I. 페이지 전체 비교에서 나온 미정 (2026-11-11, `QF`)
+
+근거: `02`의 "2026-11-11 페이지 전체 비교" 절. 바뀐 화면은 G01(경험 젤리), C05·C06(모드 카드 제목), 새 화면 G03, H01 두 번째 안(반경 드롭다운, 이미 구현).
+
+#### QF1 "경험젤리 만들러 갈까요?" 3줄의 추천 규칙
+- (a) 많이 감·적게 감·안가봄 각 1곳을 무엇으로 고르나. 그림은 "많이 감 = 곧 태어날 젤리(곰 7/10)의 분야 장소", "적게 감 = 3/10 + 날씨 이유", "안가봄 = 0/10 분야 + 거리(12km)".
+- (b) 서버 경험맵에 분야별 개수(`jellies`/`empty_jellies`)는 있으나, 분야별로 "다음에 갈 장소"를 주는 API는 없다 [사실, `server/app/visits.py` 경험맵·`server/app/course/jelly.py`]. 앱의 "다시 가볼까요?"는 최근 방문 3곳이다.
+- (c) ① 서버가 분야별 후보 1곳씩 주는 API 추가 ② 앱이 기존 추천(코스 후보·방문 기록)에서 고름 ③ 1차는 "많이 감"·"적게 감"은 다녀온 장소에서, "안가봄"은 그 분야 근처 장소 검색 1회.
+- (d) [제안] ③. 1차 접수 영상에 3줄이 실제 데이터로 보이면 충분하다.
+- (f) 그로우 작업 진행에 필요(막힘 아님, 제안대로 시작 가능).
+
+#### QF2 젤리 궤도 배치와 "N개의 젤리가 자라는 중"
+- (a) G01은 가장 많이 간 분야를 가운데 크게, 나머지를 두 궤도에 놓는다. 12분야 중 0개인 분야를 모두 점선 원으로 그릴지, 몇 개만 그릴지(그림은 4개만 "?")가 정해지지 않았다.
+- (d) [제안] 경험 있는 분야는 모두, 빈 분야는 최대 4개(B안 순서)만 "?"로.
+
+#### QF3 G03 날짜 탭 → "그날 코스와 사진"
+- (a) Note에 있지만 화면이 없다. 사진 데이터는 서버·앱 어디에도 없다 [사실].
+- (d) [제안] 1차는 날짜 탭 → 그날 방문 장소 목록(이름·분야·젤리)만, 사진은 나중.
+
+#### QF4 모드 이름 "베이비케어 모드" vs "베이비케어 공조 모드"
+- (a) C05·C06만 "베이비케어 **공조** 모드"(`355:4928`, `355:5320`)이고 C01~C04·C07~C12와 O05·O06은 "베이비케어 모드"다. 디자이너가 두 장만 고친 것인지, 전체를 바꿀 뜻인지 모른다.
+- (b) C05·C06은 수유 시각 화면이라 수유 기록 삭제(예정)와 함께 사라질 수 있다.
+- (d) [제안] 앱은 "베이비케어 모드"로 통일 유지. 디자이너에게 한 줄 확인.
+
+#### QF5 감시와 기준 섹션
+- (a) 피드백 섹션(`369:11525`)은 원본 섹션의 복사본 + H01 반경 안이다. 앞으로 디자이너가 어느 섹션을 고칠지 모른다.
+- (d) [제안] 둘 다 감시(페이지 전체 감시로 바꿈, `docs/agent-tasks/157-figma-watch.md`). 두 섹션이 서로 달라지면 그때 어느 쪽이 기준인지 묻는다.
 
 ## 3. 데이터·기능 가용성 점검
 

diff --git a/docs/agent-tasks/1111-shell-polish.md b/docs/agent-tasks/1111-shell-polish.md
@@ -1,0 +1,35 @@
+# 첫인상 다듬기: 앱 아이콘·날씨 아이콘·알림 띠·음성 패널·"경험 나무" 문구 (2026-11-11 지시서)
+
+- 상태: **대기**(실행 세션은 통제 세션이 시작) · 접수 전 필수: **예**(5건 모두)
+- 근거: 감사 `docs/audit/2026-11-11-figma-vs-app.md` 1절 상위 목록 2~6위(O-2, H-1, O-1, D-3, H-2)와 6절 F-6.
+- child-mode 세션과 파일 겹침: **가능성 있음** — `MainActivity.kt`(O-1)와 `ui/onboarding/OnboardingScreen.kt`(H-2 O01 문구). 2026-11-11 기준 child-mode 작업 트리의 미커밋 변경은 `CareController`·`PresetSync`·`SyncModels`·`TripApi`·`CareModeEditSheet`·`CareScreen`·`TripViewModel`·새 `ModeApplyAt`로, 이 지시서 파일과 직접 겹치지 않는다. 시작 전에 다시 확인할 것.
+
+## 목표
+모든 화면에서 보이는 틀린 정보·옛 디자인을 1차 접수(11/15) 전에 없앤다. 작은 작업 5개를 한 PR(또는 작은 PR 여럿)로.
+
+## 완료 조건
+1. **O-2 앱 아이콘:** 차 하단 독에 안드로이드 기본 로봇 대신 시터노트 로고(Sw). `AndroidManifest.xml` `<application android:icon / android:roundIcon>`, `res/mipmap-*`(적응형 아이콘). 로고 원본은 Figma Lib `Logo · Mark`(`351:2612` 안, 피드백 사본은 인스턴스) — 레포에 없으면 Figma REST로 SVG 1장을 읽기 전용으로 받는다(Tier 1 한도 확인, `watch/state.json`).
+2. **H-1 날씨 아이콘:** `ui/SitterGrid.kt` `SitterWeather`(171행~)가 `SitterIcons.Sun`을 고정으로 그린다. 날씨 설명(맑음·구름·흐림·비·눈·소나기 등)에 맞는 아이콘을 고른다. `ui/SitterIcons.kt`에 구름·비·눈 아이콘이 없으니 같은 선 굵기로 추가. 판정은 순수 함수 + 단위 테스트.
+3. **O-1 첫 실행 알림 띠:** 첫 실행(온보딩 O01~O03) 동안은 "알림이 꺼져 있어…" 띠(`ui/Common.kt:126~`, `MainActivity.kt` `notificationsAllowed`)를 띄우지 않는다. 권한을 묻는 O03 뒤에도 거절했을 때만, 앱 프레임을 줄이지 않는 방식으로 보인다.
+4. **D-3 음성 듣기 패널:** `ui/VoicePanel.kt`가 옛 `TripColors`(초록 마이크 원·문장 칩·"직접 입력" 상자)를 쓴다. 11/10 셸 톤(인디고, `ui/Sitter*` 토큰)으로 바꾼다. Figma에 "듣는 중" 화면은 없으니 D01 위쪽 "방금 말씀하신 것" 띠와 Voice Button 컴포넌트를 기준으로 한다. 주행 중엔 키보드 입력("직접 입력")을 막는 규칙은 그대로.
+5. **H-2 / F-6 "경험 나무" → "경험 젤리":** `ui/HomeScreen.kt:363`("경험 나무 보기"), `ui/CourseOverview.kt:147`(H02 귀가 줄), `ui/onboarding/OnboardingScreen.kt:356`(O01 GROW 카드). 주석 속 "경험 나무"도 정리.
+6. 검증: 단위 테스트 통과, 에뮬레이터 캡처(독 아이콘, 흐림 날씨, 첫 실행 O01, 음성 패널, 홈 타일). 이 파일 진행 로그·`docs/HANDOFF.md` 자기 행.
+
+## 건드릴 파일
+- `android/app/src/main/AndroidManifest.xml`, `android/app/src/main/res/mipmap-*`(새로)
+- `.../familytrip/ui/SitterGrid.kt`, `ui/SitterIcons.kt`, `ui/Common.kt`, `MainActivity.kt`(알림 띠 조건만), `ui/VoicePanel.kt`, `ui/HomeScreen.kt`, `ui/CourseOverview.kt`, `ui/onboarding/OnboardingScreen.kt`
+- 건드리지 않음: 케어·프리셋 파일, 그로우 파일(`1111-grow-jelly`), 수유 관련 문구(`1111-feeding-cleanup` — `CourseOverview.kt`는 두 지시서가 함께 고치므로 먼저 끝나는 쪽 뒤에 다른 쪽이 rebase).
+
+## Figma 노드
+- Lib 셸 `351:2612`(로고 `Logo · Mark`, `Logo · 시터노트 (Full)`, `Voice Button`), D01 `356:6661`, H01 `352:2601`(날씨 자리), O01 `369:20599`.
+
+## 결정·미정
+- 결정: 주행 중 버튼 허용·키보드만 막음(사용자 결정).
+- 미정 없음. 아이콘 그림은 Figma 로고를 그대로 쓴다.
+
+## 진행 로그
+- 2026-11-11: 지시서 작성(full-audit 세션).
+
+## 확인하지 못한 것
+- Pleos 런처가 적응형 아이콘을 어떻게 자르는지(에뮬레이터에서 확인 필요).
+- 날씨 API가 주는 설명 문자열의 전체 목록.

diff --git a/docs/agent-tasks/2026-11-11-full-audit.md b/docs/agent-tasks/2026-11-11-full-audit.md
@@ -1,6 +1,6 @@
 # 전체 감사: Figma(11/10) ↔ 실제 앱 (2026-11-11)
 
-- 상태: **완료** · 브랜치 `docs/full-audit-1111` · 이슈 #196 · PR #197 · 세션: full-audit(통제 세션이 시작)
+- 상태: **완료** · 브랜치 `docs/full-audit-1111` · 이슈 #196 · PR #197 (페이지 재조회: 이슈 #201, 브랜치 `docs/figma-page-sync-1111`) · 세션: full-audit(통제 세션이 시작)
 - 결과 문서: [docs/audit/2026-11-11-figma-vs-app.md](../audit/2026-11-11-figma-vs-app.md), 비교 이미지 `docs/screenshots/audit-*.png`
 
 ## 목표와 완료 조건
@@ -20,5 +20,17 @@
 ## 진행 로그
 - 2026-11-11: 빌드·서버·데이터 준비 → O01~O06, H01~H02-1, C02·C04·C07~C12, D01(기어 D), G01, 웹 /m 확인 → 문서·비교 이미지 25장 → PR.
 
+- 2026-11-11 오후(통제 세션 요청, #201): Figma 페이지 `종합 정리`(130:5) 전체 재조회(meta 1 + nodes 1). 바뀐 화면 G01·C05·C06 PNG 교체, G03·H01-2 PNG 추가, `02`(G01 다시 씀, G03·H01-2·페이지 비교 절), `04`(G01 낡음 표시), `05`(QF1~QF5), 감사 문서 6절, 지시서 `1111-grow-jelly`·`1111-shell-polish`·`1111-feeding-cleanup`. figma-watch 세션에 감시 범위 변경 전달(아래).
+
+## figma-watch 감시 범위를 페이지 전체로 넓히는 데 필요한 변경 (figma-watch 세션 몫, #157)
+- 대상: 섹션 `351:2611` → 페이지 `130:5` 전체(`nodes?ids=130:5&geometry=omit`, Tier 1 1회는 그대로). 노드 약 27,700개(지금 8,293), `snapshot.json` 약 5MB 예상. 발표 슬라이드(`165:*` 30장, 959개)는 넣되 세션 알림은 보내지 않는다.
+- 화면 단위: 페이지 최상위 FRAME + 모든 SECTION의 자식 FRAME/TEXT. 이름이 같은 화면이 두 섹션에 있으므로(피드백 섹션은 원본 복사본, H01은 피드백 섹션에만 2개) 화면 키를 `코드@섹션id`(예: `H01@369:11525`) 또는 노드 id로 둔다.
+- 화면 코드 인식 추가: O01~O06·O04-1, S02·S02-1, G03, G01-B·G02-B(B안), Tile·Note.
+- 화면 → 세션 표: G01·G03 → 1111-grow-jelly 실행 세션, C01~C12 → child-mode(진행 중)·1111-feeding-cleanup, H01·H02·H02-1·D01·Lib 셸 → 1111-shell-polish, O·S02 → 통제 세션. 실행 세션이 아직 없으면 통제 세션에만.
+- 새 기준선: 이 세션이 받은 페이지 응답(버전 `2420237904099670604`, 기준선과 같은 버전)을 다시 쓰면 Tier 1 호출 없이 만들 수 있다. 파일은 이 세션 스크래치에만 있어 레포에 없다 → figma-watch 세션이 직접 받거나(1회), 같은 기계에서 경로로 읽는다.
+- `state.json` Tier 1 카운터: 11월 8 → 12(감사 3 + 이번 1).
+- `CHANGELOG.md`·`README.md` 머리말의 감시 대상 문구, `157-figma-watch.md` 결정("섹션 351:2611만 유지")을 사용자 새 요청(페이지 전체)으로 고친다. 테스트(`tools/tests/test_figma_watch.py`)에 두 섹션·같은 이름 화면 경우 추가.
+
 ## 확인하지 못한 것
 - 감사 문서 4절 참고(실차·STT, C01·C03·C05·C06·C10 재현, O03 공조 미지원 상태 등).
+- 페이지 재조회: S02·S02-1 PNG는 받지 않았다. figma-watch 세션이 위 변경을 받아들였는지는 그 세션 보고로 확인.

diff --git a/docs/HANDOFF.md b/docs/HANDOFF.md
@@ -180,6 +180,9 @@
 | 케어 모드 값 아이별 (QO5: 서버 `child_id`·웹, 앱 O05·C07·C08·공조) | ✅ 완료(2026-11-11): 서버·웹 아이별 프리셋, 앱 O05 카드별 값·바꾸기, C07·C08·공조가 고른 아이 값, 에뮬레이터 아이 2명 확인. 서버 반영 시 `alembic upgrade head`. #168 적용 시점은 결정 대기 | #192 · PR #193, #194 | [192-child-care-mode.md](docs/agent-tasks/192-child-care-mode.md) |
 | 서버: 대체 후보 우회 시간·거리, 재계산 뒤 나들이 후보 | ✅ 완료 (2026-11-10), 앱 반영은 home-finish 몫 | #160 · `feature/160-server-detour` | [160-server-detour.md](docs/agent-tasks/160-server-detour.md) |
 | 서버: 그로우 젤리 12분류 판정·앱/웹 반영 | ✅ 완료 (2026-11-11). 코스 장소·방문 기록에 `jelly`, 앱 `classify` 서버 값 우선, 웹 그로우 12분류. 서버 반영 시 `alembic upgrade head` 필요 | #186 · `feature/186-server-jelly12` | [186-server-jelly12.md](docs/agent-tasks/186-server-jelly12.md) |
-| 전체 감사: Figma(11/10) ↔ 실제 앱 (기능·디자인 부족분) | ✅ 완료(2026-11-11, main `dc6e85c` 기준): 필수 8·좋음 31·나중 21. 상위: 그로우 최신 '경험 젤리' 안, 앱 아이콘, 날씨 아이콘, 첫 실행 알림 띠, 음성 패널 | #196 · PR #197 | [2026-11-11-full-audit.md](docs/agent-tasks/2026-11-11-full-audit.md) · [감사 문서](docs/audit/2026-11-11-figma-vs-app.md) |
+| 전체 감사: Figma(11/10) ↔ 실제 앱 (기능·디자인 부족분) | ✅ 완료(2026-11-11, main `dc6e85c` 기준): 필수 8·좋음 31·나중 21. 상위: 그로우 최신 '경험 젤리' 안, 앱 아이콘, 날씨 아이콘, 첫 실행 알림 띠, 음성 패널. 11/11 오후 Figma 페이지 전체 재조회(6절): G01 경험 젤리·C05·C06 문구·새 G03·H01 반경 안 → 지시서 3개 | #196 · PR #197 · 페이지 재조회 #201 | [2026-11-11-full-audit.md](docs/agent-tasks/2026-11-11-full-audit.md) · [감사 문서](docs/audit/2026-11-11-figma-vs-app.md) |
+| 그로우 G01 경험 젤리 + G03 월별 캘린더 (감사 G-1·G-4 필수) | ⏳ 대기(지시서만, 접수 전 필수) | — | [1111-grow-jelly.md](docs/agent-tasks/1111-grow-jelly.md) |
+| 첫인상 다듬기: 앱 아이콘·날씨 아이콘·알림 띠·음성 패널·"경험 나무" 문구 (감사 O-2·H-1·O-1·D-3·H-2 필수) | ⏳ 대기(지시서만, 접수 전 필수) | — | [1111-shell-polish.md](docs/agent-tasks/1111-shell-polish.md) |
+| 수유 기록 삭제 후 문구·빈자리 정리 (감사 H-12 필수) | ⏳ 대기(child-mode 끝난 뒤, 삭제 범위 QD1 답 필요) | — | [1111-feeding-cleanup.md](docs/agent-tasks/1111-feeding-cleanup.md) |
 
 - **이어받는 법:** [docs/agent-tasks/next-agent-prompt.md](docs/agent-tasks/next-agent-prompt.md)의 프롬프트를 새 에이전트에 그대로 붙여 넣는다.

diff --git a/docs/design/pleos-1110/04-dev-spec-and-code-gap.md b/docs/design/pleos-1110/04-dev-spec-and-code-gap.md
@@ -159,6 +159,8 @@ Figma 팔레트 프레임(358:5057)의 7색은 모두 읽어서 일치했다: Pr
 - 현재 서버 `alternatives`는 후보 3개를 주지만(`ALTERNATIVES = 3`) 후보에 **거리·"경로에서 +N분"이 없다**(`Place`에 거리 필드 없음). 식당·카페 후보는 카카오 분류만 걸러 편의(수유실·유모차) 정보가 비어 있다(`S/schemas.py` `Place.amenities`는 TourAPI 장소만 채움: `planner._attach_amenities`). "수유실·유모차 조건 유지"는 식당·카페에 대해 **현재 데이터로는 보장할 수 없다**(4절).
 - 재계산 `/course/schedule`(`S/course/planner.py:211 reschedule`)은 이미 장소·순서·머무는 시간을 받아 시간표를 다시 계산한다. 따라서 다른 문서가 제안한 신규 `replace-place` API는 필요 없다.
 
+> 2026-11-11: G01은 Figma에서 "경험 젤리" 안으로 바뀌었다(`02` G01 절). 아래 G01 명세는 이전 "경험 우주" 기준이라 낡았다. 새 명세와 완료 조건은 `docs/agent-tasks/1111-grow-jelly.md`(G03 월별 캘린더 포함)를 따른다.
+
 **G01** (354:3033)
 - 구성: 칩 7(전체 / 자연 / 놀이 / 체험 / 맛집 / 이번 달 / 서아 · 14개월, 354:3067), 그래프 카드 800x694(354:3471) "서아의 경험 우주 / 37개의 경험 · 9개 장소 · 다녀온 곳이 새 별로 추가돼요", 타일 "이번 달 5곳 / 지난달보다 +2곳 / 월별 보기", "새로 해 본 분야 4개 / 월별… 분야별 보기", 카드 "다시 가볼까요?" 3행(아차산 생태공원·키즈풀 실내놀이터·숲속 카페, 각 안내 버튼), 바로가기. 그래프 노드 군집은 파랑(쇼핑·놀이 4) / 보라(전시·과학 3) / 주황(체험·클래스 2) / 점선 빈 영역(자연 "다음에 넓어질 영역"), 말풍선 "방금 기록 · 11.07"(스크린샷으로 확인).
 - 현재 코드: 같은 4분야 이름을 쓴다(`ExperienceLayout.kt:27-32` "쇼핑 · 놀이/전시 · 과학/체험 · 클래스/자연") — 그래프 모양의 뼈대는 이미 Figma HF04를 따라 있다. 달라진 것: 배경이 어두운 우주(`SpaceBg` #0B0F1B, `ExperienceUniverse.kt`) → **라이트 카드(흰 배경)**, 분야 칩 필터 신설, 오른쪽 타일·카드 구성, 안내 버튼의 길안내 연결.
